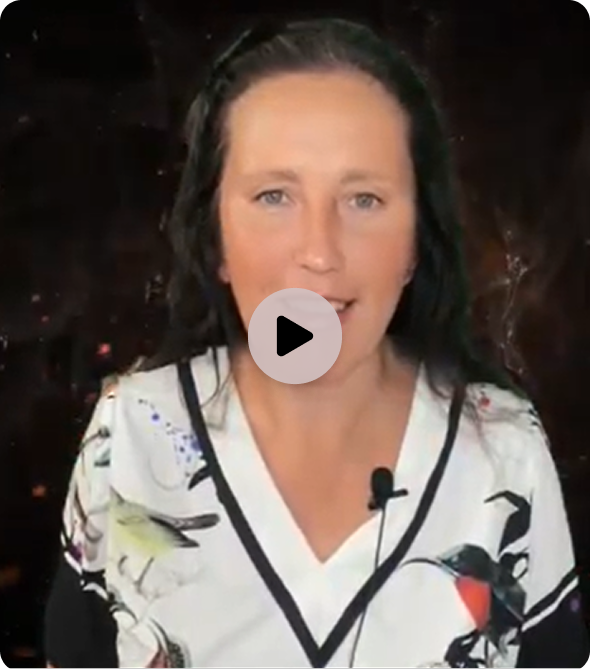
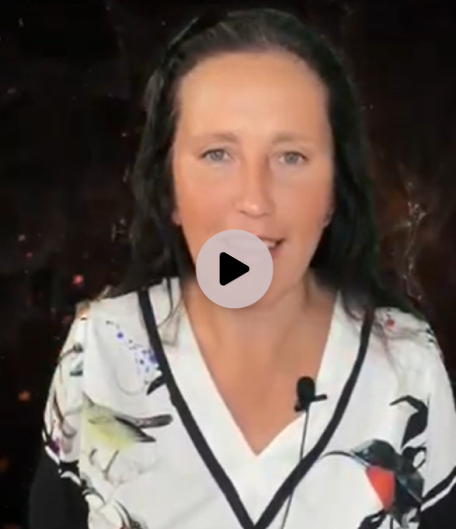
latest changes amde by hoor 56

diff --git a/app/components/HeroSection/Hero.module.css b/app/components/HeroSection/Hero.module.css
@@ -1,8 +1,8 @@
 .heroSection {
   display: flex;
-  align-items: center;
+  align-items: flex-start;
   justify-content: space-between;
-  padding: 4rem 2% 4rem 10%;
+  padding: 8rem 5% 4rem 10%;
   background-color: #f1f7f5;
   min-height: 90vh;
   gap: 2rem;
@@ -10,15 +10,16 @@
 }
 
 .heroContentWrapper {
-  flex: 1.6;
+  width: 65%;
+  flex: none;
   max-width: 850px;
   display: flex;
   flex-direction: column;
 }
 
 .heroSubTitle {
-  color: #1a1a1a;
-  font-weight: 500;
+  color: #6C757D;
+  font-weight: 400;
   font-size: 20.75px;
   line-height: 1.2;
   letter-spacing: 0.36px;
@@ -27,8 +28,8 @@
 
 .heroMainTitle {
   font-weight: 700;
-  font-size: 152px;
-  line-height: 125px;
+  font-size: 132.78px;
+  line-height: 120px;
   letter-spacing: -4px;
   color: #1a1a1a;
   margin: 0;
@@ -36,25 +37,41 @@
 }
 
 .heroMainTitle span {
-  font-size: 50px;
+  font-size: 45px;
   vertical-align: top;
 }
 
 .heroTagline {
-  font-weight: 600;
+  font-weight: 500;
   font-size: 37.34px;
   line-height: 41.49px;
   color: #222;
-  margin: 2.2rem 0 1.2rem 0;
+  margin: 2.5rem 0 1.2rem 0;
 }
 
 .heroDescription {
-  color: #444;
+  color: #6C757D;
   font-weight: 400;
   font-size: 20.75px;
   line-height: 29.05px;
-  margin-bottom: 3rem;
+  margin-bottom: 1rem;
+  /* Reduced to sit closer to bio */
   max-width: 600px;
+}
+
+.heroAuthorBio {
+  color: #1a1a1a;
+  font-weight: 700;
+  font-size: 22px;
+  line-height: 1.4;
+  margin-bottom: 3rem;
+}
+
+.heroAuthorBio span {
+  display: block;
+  font-weight: 500;
+  font-size: 18px;
+  color: #6C757D;
 }
 
 .heroButtonGroup {
@@ -72,6 +89,7 @@
   cursor: pointer;
   font-weight: 600;
   font-size: 18.67px;
+  line-height: 100%;
 }
 
 .btnSmallText {
@@ -87,12 +105,15 @@
   cursor: pointer;
   font-weight: 600;
   font-size: 18.67px;
+  line-height: 100%;
 }
 
 .heroGuaranteeText {
   color: #2E775C;
   font-weight: 700;
   font-size: 16px;
+  line-height: 100%;
+  text-decoration: none;
   margin-bottom: 3rem;
   display: block;
 }
@@ -118,11 +139,11 @@
 }
 
 .heroImageWrapperDesktop {
-  flex: 0.9;
+  width: 35%;
+  flex: none;
   display: flex;
   justify-content: flex-end;
-  padding-top: 120px;
-  transform: translateX(5%);
+  margin-top: 10rem;
 }
 
 .heroImageWrapperMobile {
@@ -130,7 +151,7 @@
 }
 
 .heroImage {
-  width: 85%;
+  max-width: 100%;
   height: auto;
   object-fit: contain;
 }
@@ -141,6 +162,13 @@
     text-align: center;
     padding: 3rem 5%;
     gap: 0;
+    align-items: center;
+  }
+
+  .heroContentWrapper {
+    width: 100%;
+    align-items: center;
+    text-align: center;
   }
 
   .heroImageWrapperDesktop {
@@ -150,17 +178,52 @@
   .heroImageWrapperMobile {
     display: flex !important;
     justify-content: center;
-    margin: 2rem 0;
+    margin-top: 3rem;
     width: 100%;
+    order: 10;
   }
 
   .heroImage {
-    max-width: 350px;
-    width: 100%;
+    max-width: 400px;
   }
 
   .heroMainTitle {
-    font-size: 80px;
-    line-height: 80px;
+    font-size: 72px;
+    line-height: 72px;
+  }
+
+  .heroButtonGroup {
+    flex-direction: column;
+    width: 100%;
+    align-items: center;
+  }
+
+  .heroPrimaryBtn,
+  .heroSecondaryBtn {
+    width: 100%;
+    max-width: 400px;
+  }
+
+  .heroStatsBar {
+    justify-content: center;
+  }
+}
+
+@media (max-width: 480px) {
+  .heroMainTitle {
+    font-size: 45px;
+    line-height: 48px;
+  }
+
+  .heroTagline {
+    font-size: 22px;
+  }
+
+  .heroImage {
+    max-width: 320px;
+  }
+
+  .heroAuthorBio {
+    font-size: 18px;
   }
 }

diff --git a/app/components/MeetingSection/Meeting.module.css b/app/components/MeetingSection/Meeting.module.css
@@ -26,15 +26,15 @@
   border-radius: 20px;
   overflow: hidden;
   box-shadow: 0 20px 40px rgba(0, 0, 0, 0.1);
-  background: #000;
-  aspect-ratio: 16 / 9;
+  background: transparent;
   width: 100%;
+  display: flex;
 }
 
 .thumbnailWrapper {
   position: relative;
   width: 100%;
-  height: 100%;
+  height: auto;
   cursor: pointer;
   display: flex;
   align-items: center;
@@ -43,21 +43,25 @@
 
 .thumbnailImage {
   width: 100%;
-  height: 100%;
-  object-fit: cover;
+  height: auto;
+  display: block;
 }
 
 .playButton {
   position: absolute;
   width: 80px;
   height: 80px;
-  background: rgba(120, 227, 120, 0.9);
+  background-color: #D0C6C5;
   border-radius: 50%;
   display: flex;
   align-items: center;
   justify-content: center;
   transition: all 0.3s ease;
   z-index: 2;
+  top: 50%;
+  left: 50%;
+  transform: translate(-50%, -50%);
+  box-shadow: 0 4px 12px rgba(0, 0, 0, 0.15);
 }
 
 .playIcon {
@@ -65,23 +69,20 @@
   height: 0;
   border-top: 15px solid transparent;
   border-bottom: 15px solid transparent;
-  border-left: 25px solid white;
-  margin-left: 5px;
+  border-left: 25px solid #000000;
+  margin-left: 6px;
 }
 
 .thumbnailWrapper:hover .playButton {
-  transform: scale(1.1);
-  background: #5cc95c;
+  transform: translate(-50%, -50%) scale(1.05);
+  background-color: #c4b9b8;
 }
 
 .videoElement {
-  position: absolute;
-  top: 0;
-  left: 0;
   width: 100%;
-  height: 100%;
+  aspect-ratio: 16 / 9;
   border: none;
-  transform: scale(1.02);
+  border-radius: 20px;
 }
 
 .contentWrapper {
@@ -118,9 +119,10 @@
 }
 
 .bioText p {
-  font-size: 18px;
+  font-size: 20px;
+  font-weight: 600;
   line-height: 1.6;
-  color: #444;
+  color: black;
   margin-bottom: 20px;
 }
 
@@ -129,7 +131,7 @@
   font-weight: 500;
   font-style: italic;
   font-size: 19px;
-  border-left: 4px solid #78E378;
+  border-left: 4px solid #2e775c;
   padding-left: 15px;
 }
 
@@ -142,6 +144,7 @@
 
   .videoWrapper {
     max-width: 100%;
+    margin-bottom: 40px;
   }
 
   .contentWrapper {

diff --git a/app/components/HeroSection/Hero.tsx b/app/components/HeroSection/Hero.tsx
@@ -21,14 +21,6 @@ const Hero: React.FC = () => {
           A weak or tense voice silently costs you authority, trust, and opportunity
         </p>
 
-        <div className={styles.heroImageWrapperMobile}>
-          <img
-            src="/images/herogirl.png"
-            alt="Voice Control Hero"
-            className={styles.heroImage}
-          />
-        </div>
-
         <div className={styles.heroButtonGroup}>
           <button className={styles.heroPrimaryBtn}>
             Start My Voice Transformation — <span className={styles.btnSmallText}>Holiday Edition</span>
@@ -53,6 +45,14 @@ const Hero: React.FC = () => {
             <img src="/images/star.png" alt="star" className={styles.icon} />
             <span>9,000+ students transformed</span>
           </div>
+        </div>
+
+        <div className={styles.heroImageWrapperMobile}>
+          <img
+            src="/images/herogirl.png"
+            alt="Voice Control Hero"
+            className={styles.heroImage}
+          />
         </div>
       </div>
 

diff --git a/app/components/MeetingSection/Meeting.tsx b/app/components/MeetingSection/Meeting.tsx
@@ -14,7 +14,7 @@ const Meeting: React.FC = () => {
             {!showVideo ? (
               <div className={styles.thumbnailWrapper} onClick={() => setShowVideo(true)}>
                 <img
-                  src="/images/video.png"
+                  src="/images/video1.png"
                   alt="Thumbnail"
                   className={styles.thumbnailImage}
                 />
@@ -24,10 +24,10 @@ const Meeting: React.FC = () => {
               </div>
             ) : (
               <iframe
-                src="https://drive.google.com/file/d/1JoCcdK7rgk0KMoryx6Oa2yXFaLcvras8/preview?autoplay=1"
+                src="https://drive.google.com/file/d/1JoCcdK7rgk0KMoryx6Oa2yXFaLcvras8/preview"
                 className={styles.videoElement}
-                allow="autoplay"
-                loading="eager"
+                allow="autoplay; fullscreen; shadow-root"
+                allowFullScreen
                 title="Meeting Video"
               ></iframe>
             )}
